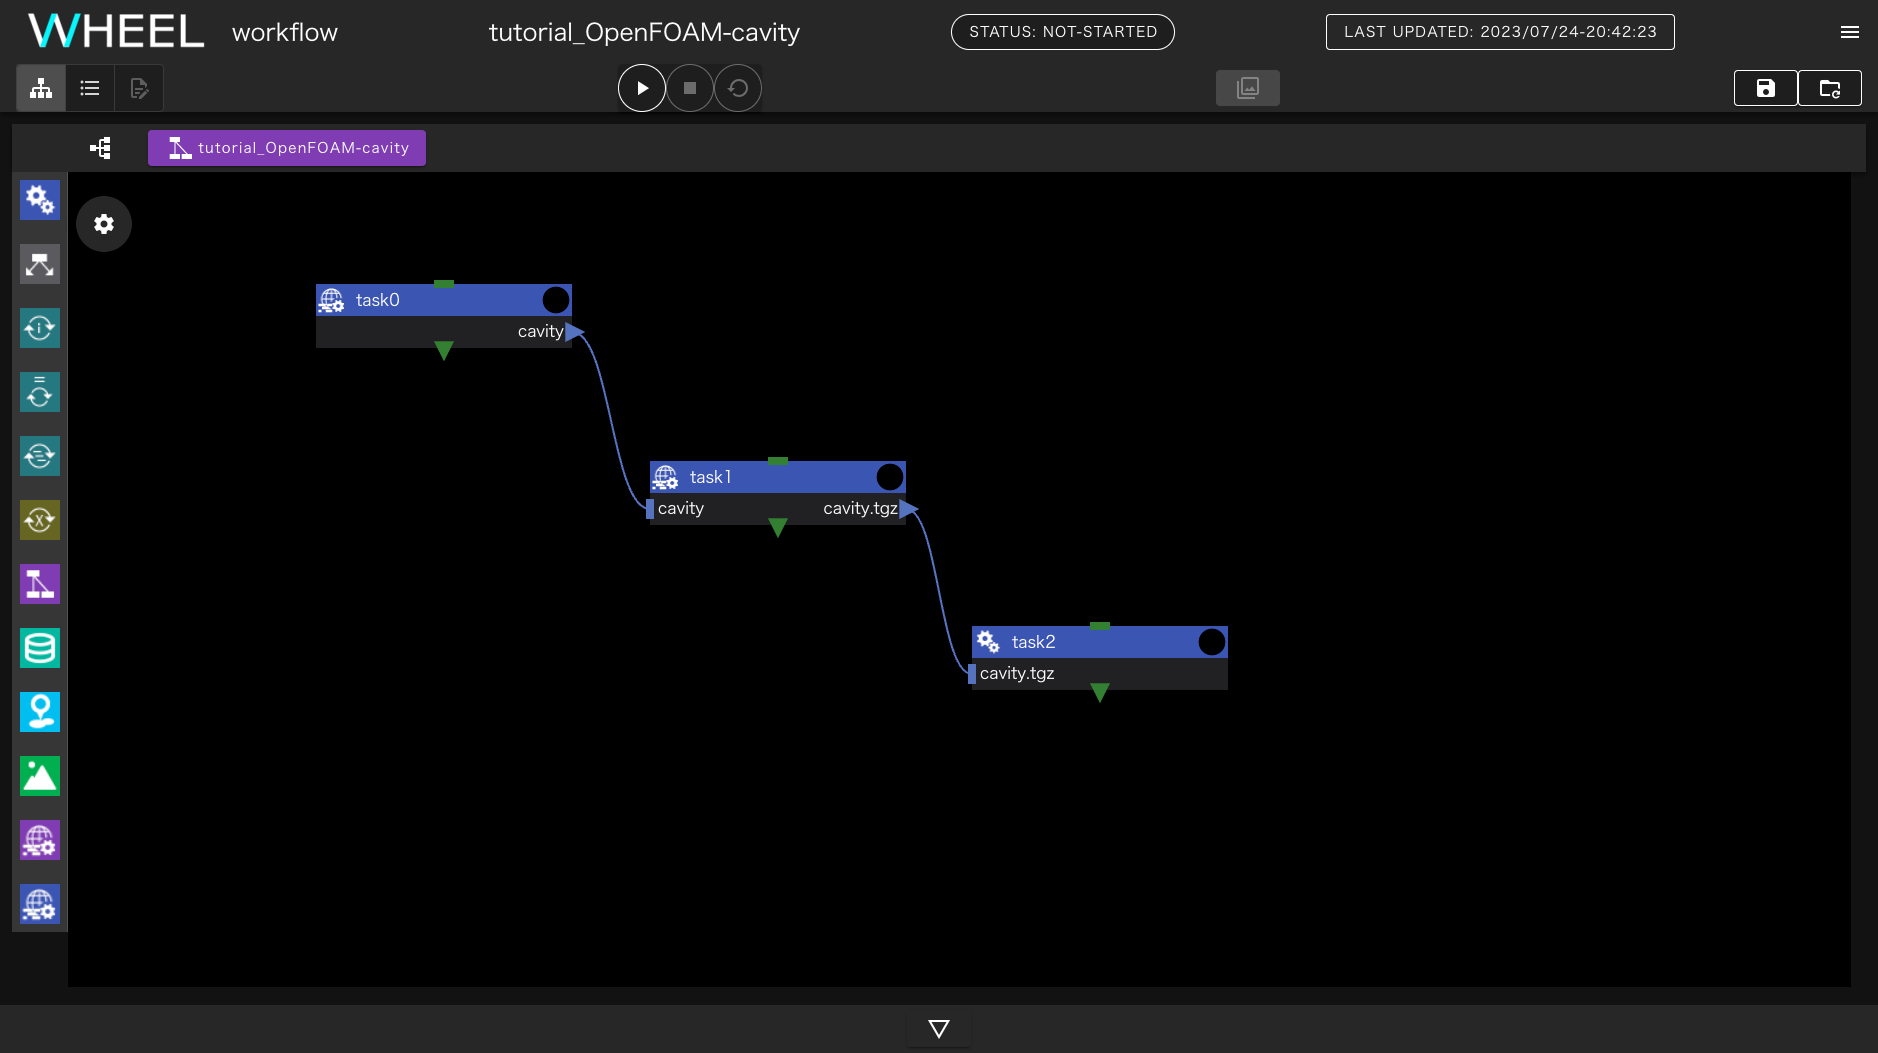
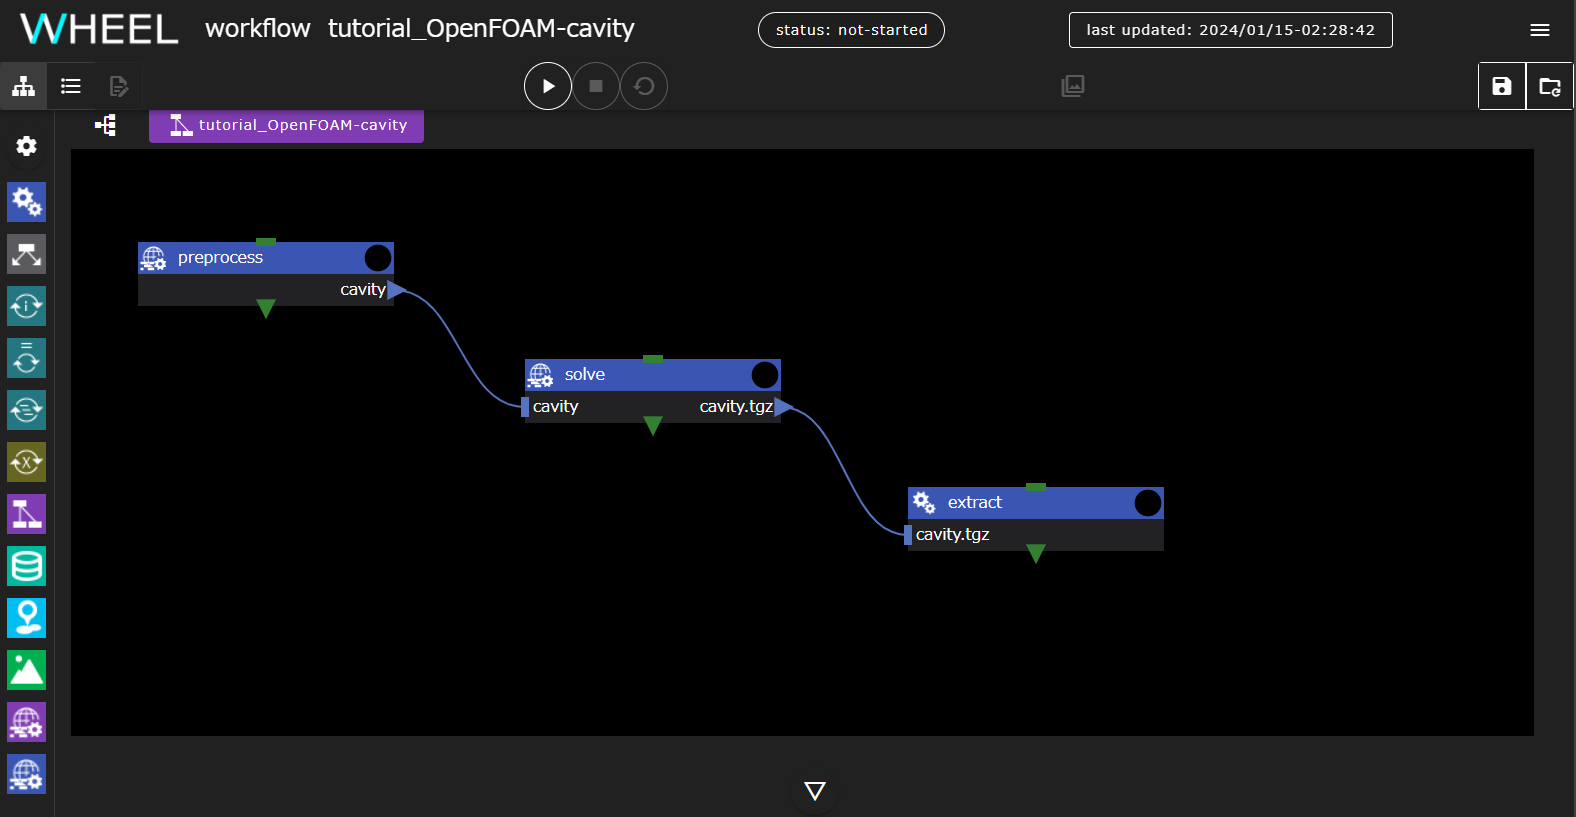
update images

diff --git a/documentMD/user_guide/_tutorial/3_application_tutorial/1_OpenFOAM_cavity/index.en.md b/documentMD/user_guide/_tutorial/3_application_tutorial/1_OpenFOAM_cavity/index.en.md
@@ -9,7 +9,7 @@ In this chapter, we introduce a calculation example using WHEEL, "Analysis workf
 The model covered in this chapter is the "cavity" model, which is a well-known basic validation of CFD software.
 Analyze a model in which the top wall moves horizontally at a constant velocity, causing the internal fluid to move as it is dragged.
 
-![img](./img/cavity.png "cavity")
+![img](./img/cavity.en.png "cavity")
 
 As an example, the OpenFOAM distribution contains data for analysis using this model.
 Use the file to perform the calculation.
